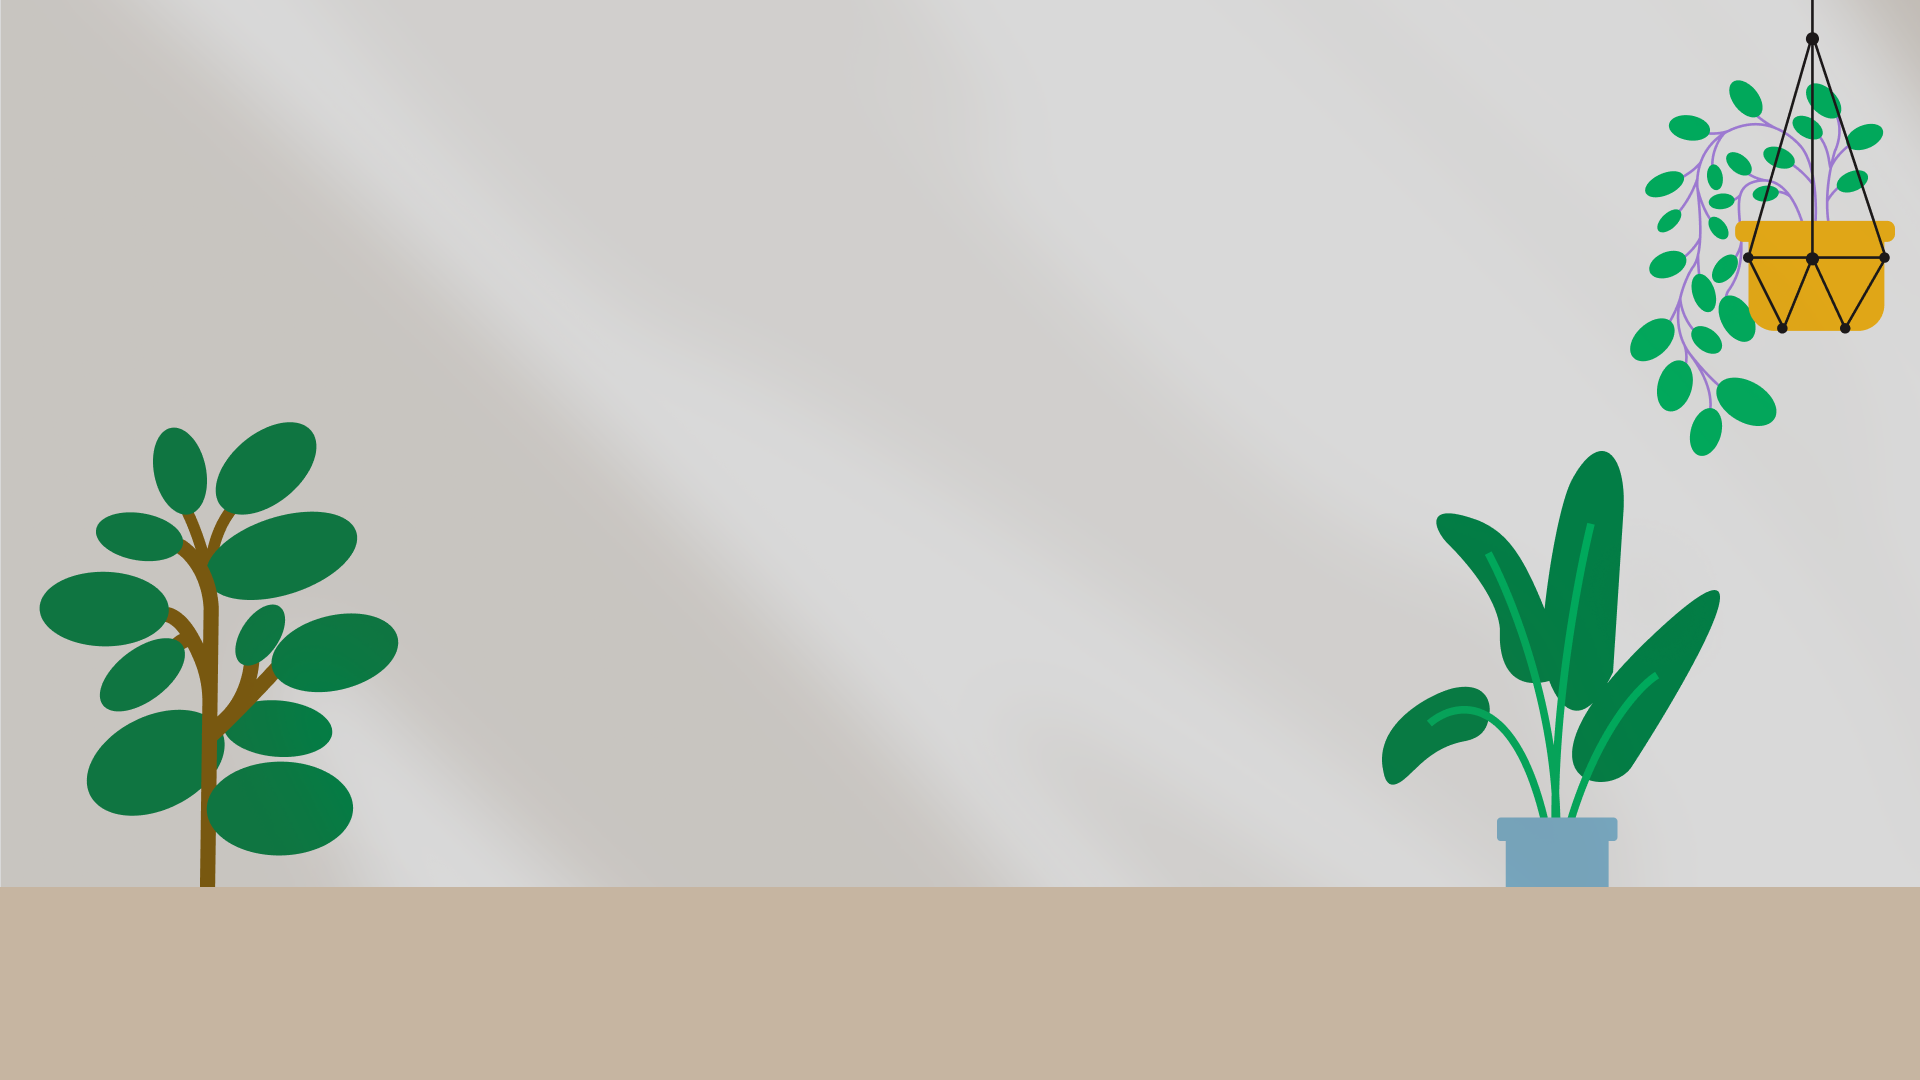
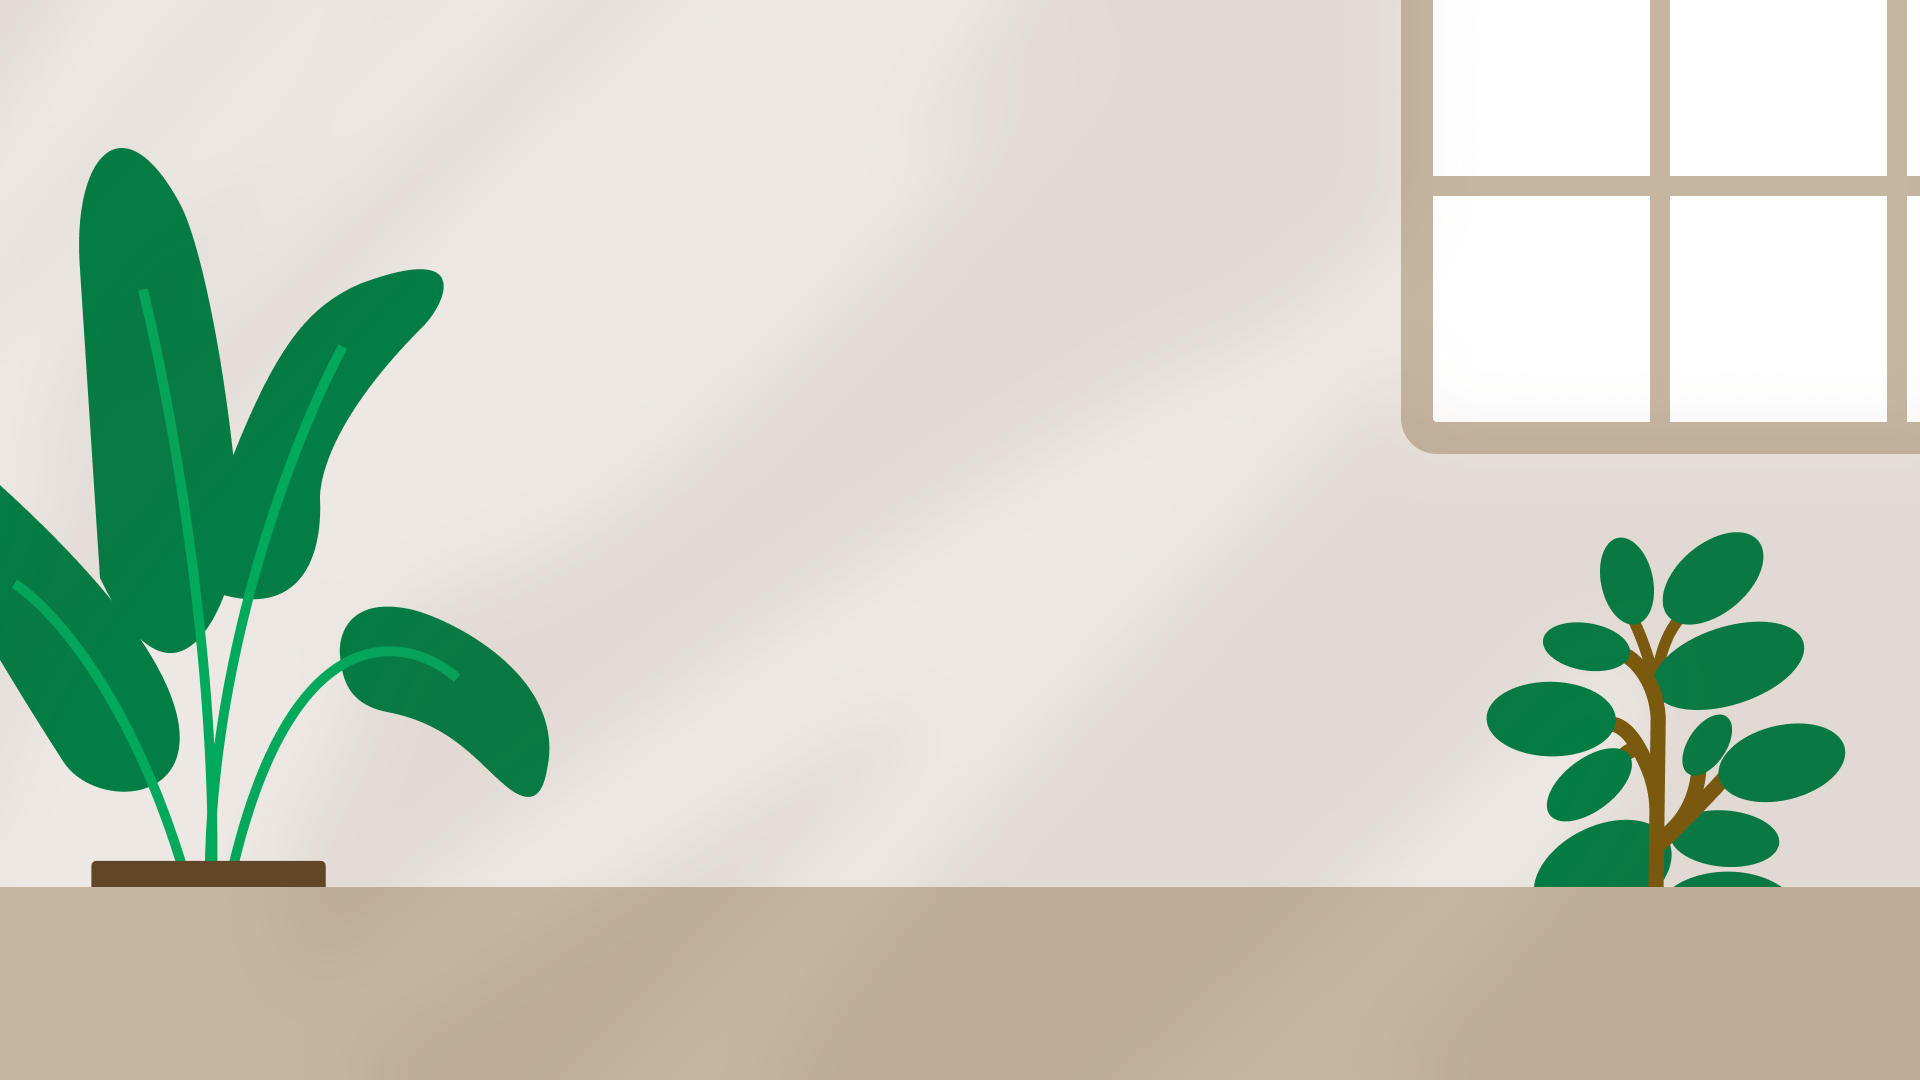
feat: animate gamescene bg elements.

diff --git a/src/scenes/Preloader.js b/src/scenes/Preloader.js
@@ -32,6 +32,8 @@ export class Preloader extends Scene {
         this.load.image("startBtn", "startBtn.png");
         this.load.image("howToBtn", "howToBtn.png");
         this.load.image("boardFrame", "boardFrame.png");
+        this.load.image("sky", "sky.png");
+        this.load.image("hangingPlant", "hanging-plant.png");
         this.load.spritesheet("howToSprite", "howto-sprite.png", {
             frameWidth: 381,
             frameHeight: 314,
@@ -44,6 +46,10 @@ export class Preloader extends Scene {
             frameWidth: 95,
             frameHeight: 95,
         });
+        this.load.spritesheet("coffee", "coffee.png", {
+            frameWidth: 262,
+            frameHeight: 291,
+        });
     }
 
     create() {
@@ -55,11 +61,20 @@ export class Preloader extends Scene {
             frameRate: 2,
             repeat: -1,
         });
+        this.anims.create({
+            key: "coffee",
+            frames: this.anims.generateFrameNumbers("coffee", {
+                frames: [0, 1, 2],
+            }),
+
+            frameRate: 3,
+            repeat: -1,
+        });
 
         this.time.delayedCall(1000, () => {
             this.cameras.main.fadeOut(1000);
             this.cameras.main.once("camerafadeoutcomplete", () => {
-                this.scene.start("MainMenu");
+                this.scene.start("GameScene");
             });
         });
     }

diff --git a/src/scenes/GameScene.js b/src/scenes/GameScene.js
@@ -8,6 +8,17 @@ export class GameScene extends Scene {
 
     create() {
         this.add.image(globals.centerX, globals.centerY, "gameBg");
+        this.coffee = this.add.sprite(240, 900, "coffee");
+        this.add.image(1760, 230, "hangingPlant");
+        const sky = this.add.image(2220, 200, "sky").setDepth(-1);
+
+        this.coffee.play("coffee");
+        this.tweens.add({
+            targets: sky,
+            x: "-=1100",
+            duration: 35000,
+            repeat: -1,
+        });
 
         this.boardFrame = this.add.image(
             globals.centerX,
@@ -83,7 +94,7 @@ export class GameScene extends Scene {
         this.turnText = this.add
             .text(
                 200,
-                100,
+                80,
                 `Player ${this.currentPlayer}'s Turn`,
                 globals.bodyTextStyle
             )
